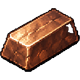
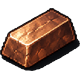
feat(art): слитки без дыр (flood fill) + 11 бутылок нарезаны

diff --git a/tests/extract_chatgpt_bottles.py b/tests/extract_chatgpt_bottles.py
@@ -1,0 +1,222 @@
+#!/usr/bin/env python3
+# -*- coding: utf-8 -*-
+"""Нарезка ChatGPTBottle1.png → assets/potions/*.png.
+
+Вход:  import/ChatGPTBottle1.png (1254x1254, RGB, фон ~ (18,18,19))
+Компоненты: 11 связных объектов, найдены авто-детекцией (area > 500 px),
+           а не жёсткой сеткой — бутылки разного размера, клетка не равна.
+Выход: 64x64 RGBA, пропорции сохранены, бутылка по длинной стороне.
+
+Метод: альфа-градиент по расстоянию до цвета фона, а не бинарный порог.
+       У бутылок в атласе мягкая тень (4327 px с dist 12-60). Жёсткая маска
+       превращала её в серую плиту — на тёмном фоне магазина читалось как
+       чёрный квадрат по краям. Градиент растворяет тень, сохраняя и её, и
+       свечения вокруг флаконов.
+
+Запуск:
+    python tests/extract_chatgpt_bottles.py
+    python tests/extract_chatgpt_bottles.py --report
+    python tests/extract_chatgpt_bottles.py --sheet
+"""
+
+from __future__ import annotations
+
+import argparse
+import os
+import sys
+from collections import deque
+
+import numpy as np
+from PIL import Image, ImageDraw, ImageFilter
+
+SOURCE = os.path.join("import", "ChatGPTBottle1.png")
+OUT_DIR = os.path.join("assets", "potions")
+SHEET = os.path.join(OUT_DIR, "_contact_sheet.png")
+
+GAME_SIZE = 64
+BG = (18, 18, 19)
+ALPHA_LO = 12.0
+ALPHA_HI = 110.0
+ALPHA_BLUR = 0.8
+MIN_AREA = 500
+
+# Имена по порядку компонент: верхний ряд слева направо, потом нижний.
+NAMES = [
+    "health_small",
+    "health_medium",
+    "health_large",
+    "mana_small",
+    "mana_medium",
+    "mana_large",
+    "nature_leaf",
+    "astral_feather",
+    "light_star",
+    "dark_skull",
+    "light_wings",
+]
+
+
+def flood_background(is_bg: np.ndarray) -> np.ndarray:
+    """True только для фона, связного с границей изображения (4-связность)."""
+    h, w = is_bg.shape
+    seen = np.zeros_like(is_bg)
+    queue: deque[tuple[int, int]] = deque()
+    for x in range(w):
+        for y in (0, h - 1):
+            if is_bg[y, x] and not seen[y, x]:
+                seen[y, x] = True
+                queue.append((y, x))
+    for y in range(h):
+        for x in (0, w - 1):
+            if is_bg[y, x] and not seen[y, x]:
+                seen[y, x] = True
+                queue.append((y, x))
+    while queue:
+        y, x = queue.popleft()
+        for dy, dx in ((1, 0), (-1, 0), (0, 1), (0, -1)):
+            ny, nx = y + dy, x + dx
+            if 0 <= ny < h and 0 <= nx < w and is_bg[ny, nx] and not seen[ny, nx]:
+                seen[ny, nx] = True
+                queue.append((ny, nx))
+    return seen
+
+
+def find_components(obj: np.ndarray) -> list[tuple[int, int, int, int, int]]:
+    """Связные компоненты как (area, x0, y0, x1, y1), по чтению сверху вниз."""
+    h, w = obj.shape
+    labels = np.zeros(obj.shape, dtype=bool)
+    comps: list[tuple[int, int, int, int, int]] = []
+    ys, xs = np.nonzero(obj)
+    for y0, x0 in zip(ys, xs):
+        if labels[y0, x0]:
+            continue
+        queue: deque[tuple[int, int]] = deque([(y0, x0)])
+        labels[y0, x0] = True
+        minx = maxx = x0
+        miny = maxy = y0
+        area = 0
+        while queue:
+            y, x = queue.popleft()
+            area += 1
+            minx, maxx = min(minx, x), max(maxx, x)
+            miny, maxy = min(miny, y), max(maxy, y)
+            for dy, dx in ((1, 0), (-1, 0), (0, 1), (0, -1)):
+                ny, nx = y + dy, x + dx
+                if 0 <= ny < h and 0 <= nx < w and obj[ny, nx] and not labels[ny, nx]:
+                    labels[ny, nx] = True
+                    queue.append((ny, nx))
+        if area >= MIN_AREA:
+            comps.append((area, minx, miny, maxx, maxy))
+    # порядок чтения: по верхней границе, затем по левой
+    comps.sort(key=lambda c: (round(c[2] / 300), c[1]))
+    return comps
+
+
+def cut_component(arr: np.ndarray, comp: tuple[int, int, int, int, int]) -> Image.Image:
+    """Вырезает компоненту; альфа = градиент по расстоянию до цвета фона.
+
+    Бинарный порог здесь не годится: у каждой бутылки в атласе мягкая тень,
+    и жёсткая маска превращала её в непрозрачную серую плиту вокруг флакона.
+    Градиент растворяет тень, сохраняя и её, и ореолы свечений.
+    """
+    _, x0, y0, x1, y1 = comp
+    cell = arr[y0 : y1 + 1, x0 : x1 + 1]
+    dist = np.linalg.norm(
+        cell[:, :, :3].astype(np.float32) - np.array(BG, dtype=np.float32), axis=2
+    )
+    alpha = np.clip((dist - ALPHA_LO) / (ALPHA_HI - ALPHA_LO), 0.0, 1.0) * 255.0
+    rgba = np.dstack([cell[:, :, :3], alpha.astype(np.uint8)])
+    rgba[:, :, 3] = np.array(
+        Image.fromarray(rgba[:, :, 3], "L").filter(ImageFilter.GaussianBlur(ALPHA_BLUR))
+    )
+    ys, xs = np.where(rgba[:, :, 3] > 16)
+    if not len(ys):
+        return Image.fromarray(rgba, "RGBA")
+    return Image.fromarray(
+        rgba[ys.min() : ys.max() + 1, xs.min() : xs.max() + 1], "RGBA"
+    )
+
+
+def fit_game_size(im: Image.Image) -> Image.Image:
+    im = im.convert("RGBA")
+    w, h = im.size
+    scale = GAME_SIZE / max(w, h)
+    nw = max(1, int(round(w * scale)))
+    nh = max(1, int(round(h * scale)))
+    im = im.resize((nw, nh), Image.Resampling.LANCZOS)
+    canvas = Image.new("RGBA", (GAME_SIZE, GAME_SIZE), (0, 0, 0, 0))
+    canvas.paste(im, ((GAME_SIZE - nw) // 2, (GAME_SIZE - nh) // 2), im)
+    return canvas
+
+
+def main() -> int:
+    ap = argparse.ArgumentParser()
+    ap.add_argument("--report", action="store_true")
+    ap.add_argument("--sheet", action="store_true")
+    args = ap.parse_args()
+
+    if not os.path.exists(SOURCE):
+        print(f"FAIL: нет {SOURCE}")
+        return 1
+
+    src = Image.open(SOURCE).convert("RGB")
+    arr = np.array(src)
+    h, w = arr.shape[:2]
+    print(f"SOURCE {w}x{h}")
+
+    dist = np.linalg.norm(
+        arr.astype(np.float32) - np.array(BG, dtype=np.float32), axis=2
+    )
+    obj = ~flood_background(dist <= ALPHA_LO)
+    comps = find_components(obj)
+    print(f"components={len(comps)} (ожидается {len(NAMES)})")
+
+    if len(comps) != len(NAMES):
+        print("FAIL: число компонент не совпало с NAMES — имена сдвинутся")
+        return 2
+
+    os.makedirs(OUT_DIR, exist_ok=True)
+    written = 0
+    for comp, name in zip(comps, NAMES):
+        area, x0, y0, x1, y1 = comp
+        crop = cut_component(arr, comp)
+        out_im = fit_game_size(crop)
+        fname = f"{name}.png"
+        if not args.report:
+            out_im.save(os.path.join(OUT_DIR, fname))
+        written += 1
+        print(
+            f"OK {name:16} area={area:6} "
+            f"bbox=({x0},{y0})-({x1},{y1}) {x1 - x0 + 1}x{y1 - y0 + 1} -> {fname}"
+        )
+
+    if args.sheet or not args.report:
+        cols = 6
+        rows = (len(NAMES) + cols - 1) // cols
+        pad = 8
+        label_h = 14
+        sheet = Image.new(
+            "RGBA",
+            (cols * (GAME_SIZE + pad), rows * (GAME_SIZE + pad + label_h)),
+            (32, 32, 36, 255),
+        )
+        draw = ImageDraw.Draw(sheet)
+        for idx, name in enumerate(NAMES):
+            path = os.path.join(OUT_DIR, f"{name}.png")
+            x = (idx % cols) * (GAME_SIZE + pad)
+            y = (idx // cols) * (GAME_SIZE + pad + label_h)
+            draw.text((x, y + GAME_SIZE + 2), name, fill=(220, 220, 220, 255))
+            if os.path.exists(path) and not args.report:
+                icon = Image.open(path).convert("RGBA")
+                sheet.paste(icon, (x, y), icon)
+        if not args.report:
+            sheet.save(SHEET)
+            print(f"SHEET {SHEET}")
+
+    print(f"written={written}")
+    print(f"RESULT: {'OK' if written == len(NAMES) else 'FAIL'}")
+    return 0 if written == len(NAMES) else 2
+
+
+if __name__ == "__main__":
+    sys.exit(main())

diff --git a/tests/extract_chatgpt_ingots.py b/tests/extract_chatgpt_ingots.py
@@ -4,8 +4,12 @@
 
 Вход:  import/ChatGPTIngots1.png (1536x1024, RGB, тёмный фон ~ (23,24,27))
 Сетка: 5 столбцов x 4 строки = 20 слитков.
-Выход: 80x80 RGBA. Кроп: color-key фона + дилатация маски (мягкий край).
-Без «заливки дырок» — игрок подтвердил эту версию как красивую.
+Выход: 80x80 RGBA. Кроп: заливка фона ОТ ГРАНИЦ (flood fill) + дилатация.
+
+Почему flood fill, а не color-key: тёмные металлы (cobalt, terbium) имеют
+теневую грань почти того же цвета, что и фон (dist 20-80 против фона max 6.4).
+Глобальный порог вырезал грань насквозь — 738/1305 внутренних дыр на слитке.
+Заливка от границ фон снаружи связен, а грань внутри — нет, поэтому 0 дыр.
 
 Запуск:
     python tests/extract_chatgpt_ingots.py
@@ -20,6 +24,8 @@ import os
 import sys
 
 import numpy as np
+from collections import deque
+
 from PIL import Image, ImageDraw
 
 SOURCE = os.path.join("import", "ChatGPTIngots1.png")
@@ -30,7 +36,7 @@ GAME_SIZE = 80
 COLS = 5
 ROWS = 4
 BG = (23, 24, 27)
-BG_TOL = 32.0
+BG_TOL = 12.0
 MASK_DILATE = 3
 
 GRID: dict[tuple[int, int], str] = {
@@ -90,8 +96,37 @@ def dilate_mask(mask: np.ndarray, radius: int) -> np.ndarray:
     return out
 
 
+def flood_background(is_bg: np.ndarray) -> np.ndarray:
+    """True только для фона, связного с границей ячейки (4-связность).
+
+    Отличие от color-key: внутренние тёмные области слитка не соединяются с
+    внешним фоном, поэтому переживают, даже если совпадают с ним по цвету.
+    """
+    h, w = is_bg.shape
+    seen = np.zeros_like(is_bg)
+    queue: deque[tuple[int, int]] = deque()
+    for x in range(w):
+        for y in (0, h - 1):
+            if is_bg[y, x] and not seen[y, x]:
+                seen[y, x] = True
+                queue.append((y, x))
+    for y in range(h):
+        for x in (0, w - 1):
+            if is_bg[y, x] and not seen[y, x]:
+                seen[y, x] = True
+                queue.append((y, x))
+    while queue:
+        y, x = queue.popleft()
+        for dy, dx in ((1, 0), (-1, 0), (0, 1), (0, -1)):
+            ny, nx = y + dy, x + dx
+            if 0 <= ny < h and 0 <= nx < w and is_bg[ny, nx] and not seen[ny, nx]:
+                seen[ny, nx] = True
+                queue.append((ny, nx))
+    return seen
+
+
 def cut_cell(arr: np.ndarray, x0: int, y0: int, x1: int, y1: int) -> Image.Image:
-    """Color-key фона + дилатация. Без заливки внутренних тёмных зон."""
+    """Заливка фона от границ + дилатация маски (мягкий край)."""
     from PIL import ImageFilter
 
     cell = arr[y0:y1, x0:x1]
@@ -102,7 +137,7 @@ def cut_cell(arr: np.ndarray, x0: int, y0: int, x1: int, y1: int) -> Image.Image
     )
     rgb = rgba[:, :, :3].astype(np.float32)
     dist = np.linalg.norm(rgb - np.array(BG, dtype=np.float32), axis=2)
-    mask = dist > BG_TOL
+    mask = ~flood_background(dist <= BG_TOL)
     if not mask.any():
         return Image.new("RGBA", (1, 1), (0, 0, 0, 0))
     mask = dilate_mask(mask, MASK_DILATE)
